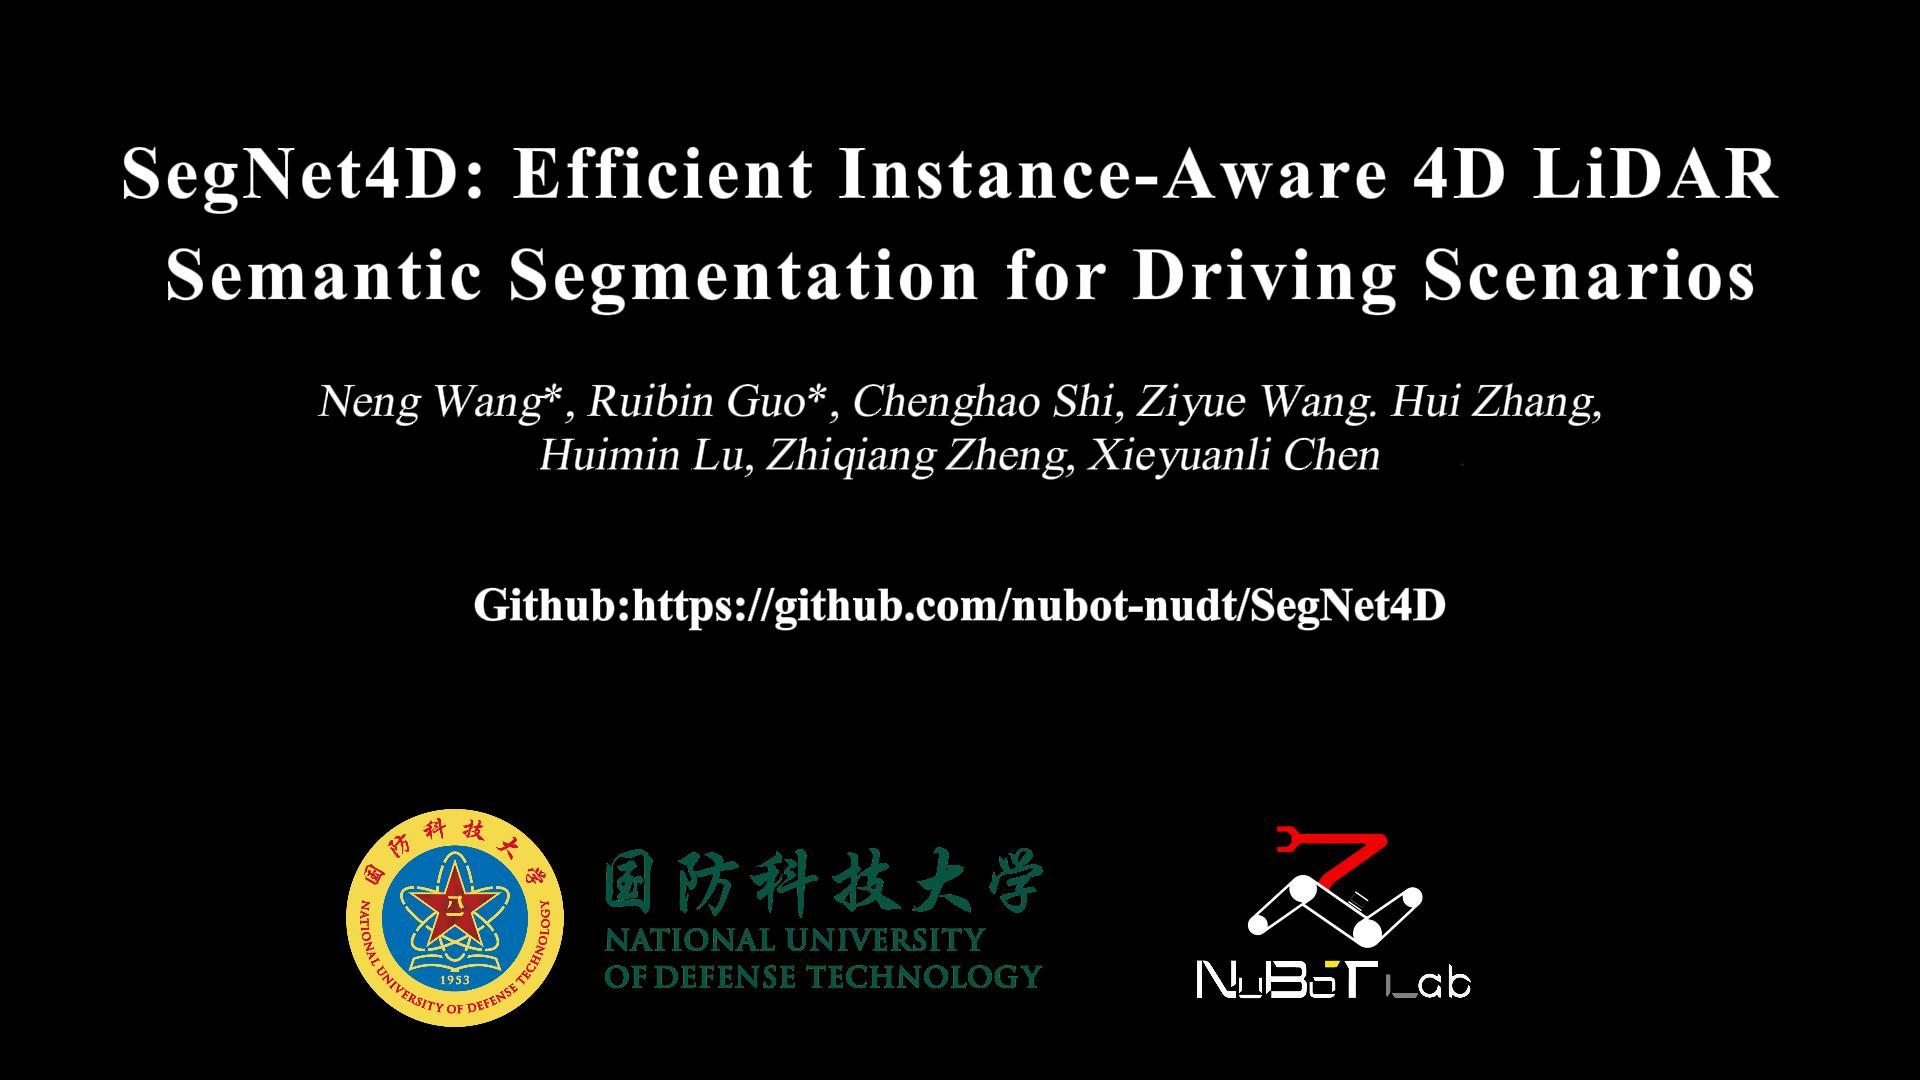
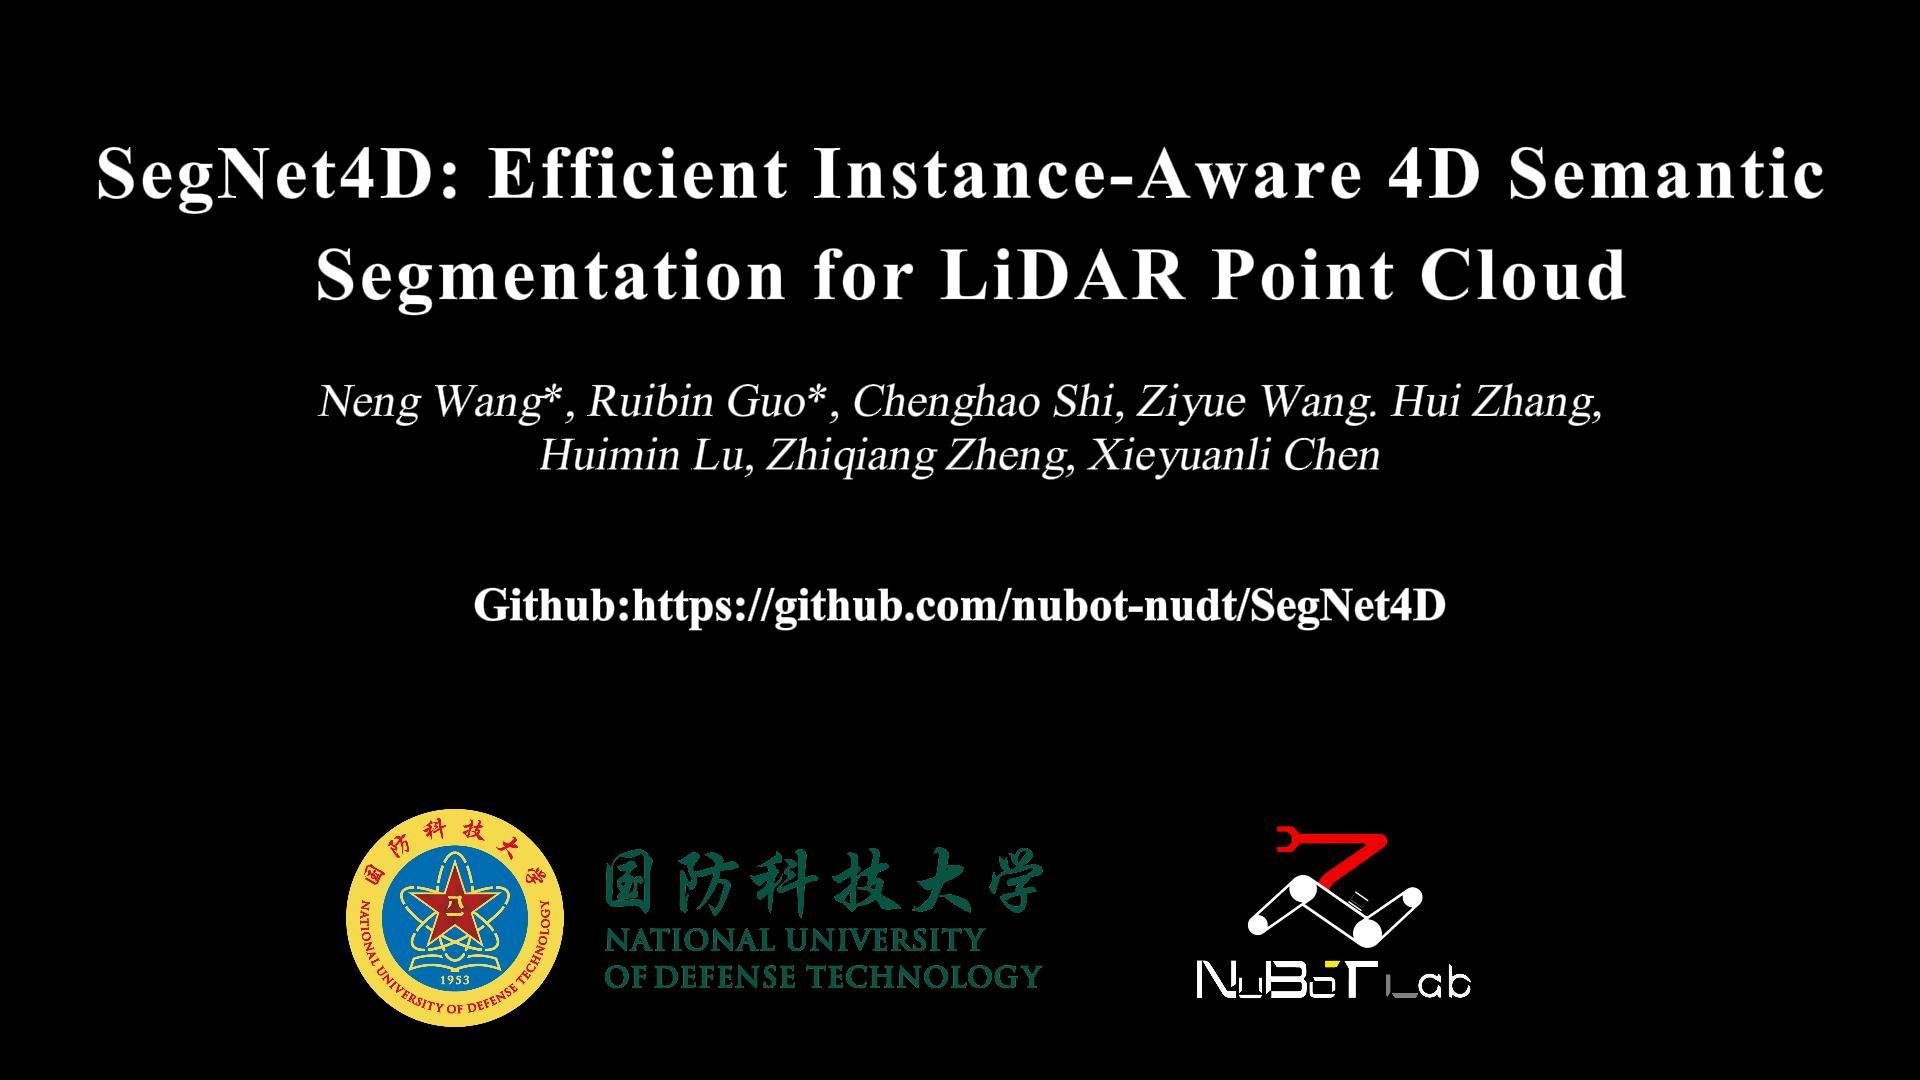
update

Changed region(s): [[0.0312, 0.1222, 0.9688, 0.2139], [0.0625, 0.2139, 0.9375, 0.3056]]

diff --git a/SegNet4D/index.html b/SegNet4D/index.html
@@ -30,7 +30,7 @@
         <div class="columns is-centered">
           <div class="column has-text-centered">
             <h1 class="title is-1 publication-title">SegNet4D </h1>
-            <h1 class="title is-2 publication-title">Efficient Instance-Aware 4D LiDAR Semantic Segmentation for Driving Scenarios</h1>
+            <h1 class="title is-2 publication-title">Efficient Instance-Aware 4D Semantic Segmentation for LiDAR Point Cloud</h1>
 
             <!-- <div class="column is-full_width"> -->
             <!--   <h2 class="title is-4">conference</h2> -->
@@ -129,7 +129,7 @@
               <b>TL;DR: 
                 4D LiDAR semantic segmentation, also referred to as multi-scan semantic segmentation, 
                 plays a crucial role in enhancing the environmental understanding capabilities of autonomous robots. 
-                It classifies the semantic category of each LiDAR point and detects whether it is dynamic, a critical ability for tasks like obstacle avoidance and autonomous navigation. 
+                It classifies the semantic category of each LiDAR measurement point and detects whether it is dynamic, a critical ability for tasks like obstacle avoidance and autonomous navigation. 
               </b>
             </p>
             <p>
@@ -144,7 +144,7 @@
             </p>
             <p>
               Our approach surpasses state-of-the-art in both multi-scan semantic segmentation and moving object segmentation while offering greater efficiency, enabling real-time operation.
-              Besides, its effectiveness and efficiency have also been validated on a real-world robotic platform.  <br />
+              Besides, its effectiveness and efficiency have also been validated on a real-world unmanned ground platform.  <br />
                 <!-- We will publicly release code and models upon acceptance. -->
             </p>
                 
@@ -174,7 +174,7 @@
       <h2 class="title">BibTeX</h2>
       <pre><code>
       @article{wang2024segnet4d,
-        title     = {{SegNet4D: Efficient Instance-Aware 4D LiDAR Semantic Segmentation for Driving Scenarios}},
+        title     = {{SegNet4D: Efficient Instance-Aware 4D Semantic Segmentation for LiDAR Point Cloud}},
         author    = {Neng, Wang and Ruibin, Guo and Chenghao, Shi and Ziyue, Wang and Hui, Zhang and Huimin, Lu and Zhiqiang, Zheng and Xieyuanali, Chen},
         journal   = {arXiv},
         year      = {2024}
